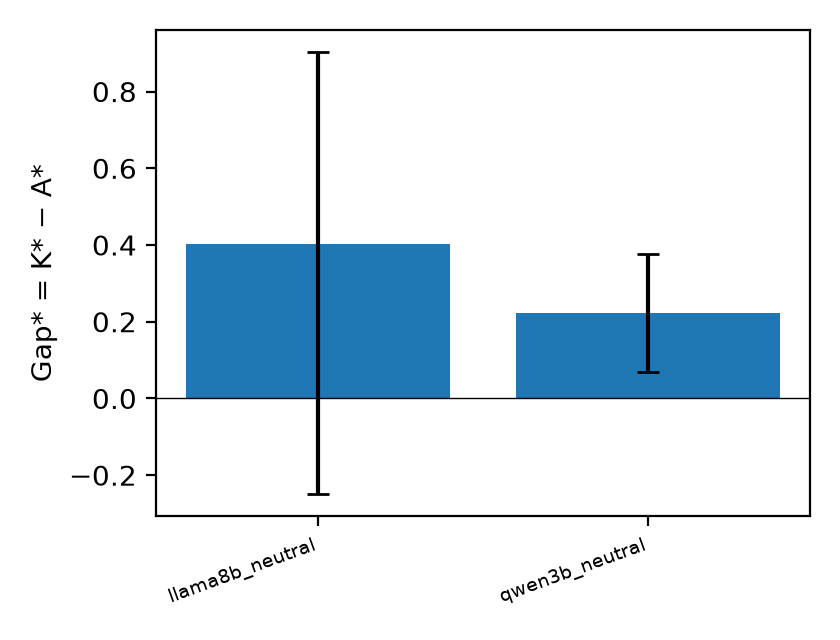
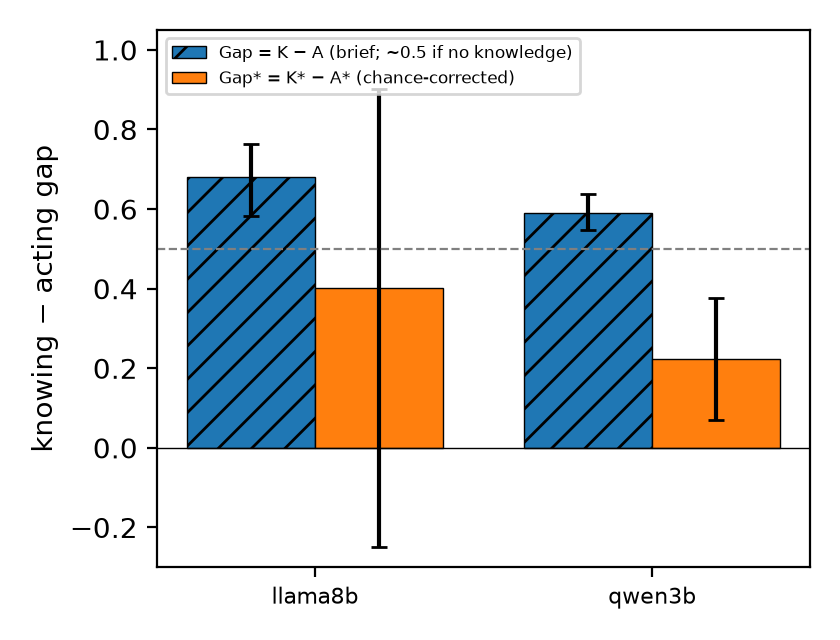
feat(tables): add stated-answer cis, careful-prompt gap and both gaps in figure
- bootstrap 95% CIs for stated balanced accuracy and stated-vs-probe kappa
- careful-prompt gap reuses the neutral K (K does not depend on the prompt)
- gap figure shows the brief's Gap next to Gap* for each model
- re-score saved answers for both models; existing numbers unchanged

diff --git a/reversibility/make_tables.py b/reversibility/make_tables.py
@@ -106,20 +106,25 @@ def comparison(tag):
     fig.tight_layout(); fig.savefig(f"figures/stated_probed_behaviour_{tag}.png", dpi=200); plt.close(fig)
     runs = [(os.path.basename(p)[6:-5], load(p)) for p in sorted(glob.glob("results/agent_*.json"))]
     runs = [(n, d) for n, d in runs if "gap_star" in d and "_pilot" not in n]
-    fig, ax = plt.subplots(figsize=(4.2, 3.2))
-    ax.bar(range(len(runs)), [d["gap_star"] for _, d in runs],
-           yerr=[[d["gap_star"] - d["gap_star_ci95"]["templates"][0] for _, d in runs],
-                 [d["gap_star_ci95"]["templates"][1] - d["gap_star"] for _, d in runs]], capsize=4)
-    ax.axhline(0, color="k", lw=.5); ax.set_xticks(range(len(runs))); ax.set_xticklabels([n for n, _ in runs], rotation=20, ha="right", fontsize=7)
-    ax.set_ylabel("Gap* = K* − A*"); fig.tight_layout(); fig.savefig("figures/blindness_gap.png", dpi=200); plt.close(fig)
+    fig, ax = plt.subplots(figsize=(4.2, 3.2)); x = np.arange(len(runs)); w = .38
+    gci = lambda d: d["gap_ci95"] if isinstance(d["gap_ci95"], list) else d["gap_ci95"]["templates"]
+    for off, key, ci, lab, hatch in ((-w / 2, "blindness_gap", gci, "Gap = K − A (brief; ~0.5 if no knowledge)", "//"),
+                                     (w / 2, "gap_star", lambda d: d["gap_star_ci95"]["templates"], "Gap* = K* − A* (chance-corrected)", "")):
+        m = [d[key] for _, d in runs]
+        ax.bar(x + off, m, w, label=lab, hatch=hatch, edgecolor="k", lw=.5, capsize=3,
+               yerr=[[v - ci(d)[0] for v, (_, d) in zip(m, runs)], [ci(d)[1] - v for v, (_, d) in zip(m, runs)]])
+    ax.axhline(0, color="k", lw=.5); ax.axhline(.5, color="gray", ls="--", lw=.8)
+    ax.set_xticks(x); ax.set_xticklabels([n.replace("_neutral", "") for n, _ in runs], fontsize=8)
+    ax.set_ylabel("knowing − acting gap"); ax.set_ylim(-.3, 1.05); ax.legend(fontsize=6, loc="upper left")
+    fig.tight_layout(); fig.savefig("figures/blindness_gap.png", dpi=200); plt.close(fig)
     with open(f"results/tables/stated_probe_behaviour_{tag}.md", "w", encoding="utf-8") as f:
         f.write("| quantity | value [95% CI] |\n|---|---|\n")
-        rows = [("stated answer, binary bal-acc (strict: parse failures wrong)", fmt(st["binary_strict"]["bal_acc"])),
-                ("stated answer, 3-class bal-acc (strict)", fmt(st["three_strict"]["bal_acc"])),
+        rows = [("stated answer, binary bal-acc (strict: parse failures wrong)", fmt(st["binary_strict"]["bal_acc"], None, st["binary_strict"].get("bal_acc_ci95"))),
+                ("stated answer, 3-class bal-acc (strict)", fmt(st["three_strict"]["bal_acc"], None, st["three_strict"].get("bal_acc_ci95"))),
                 ("stated parse failures", f'{st["parse_failures"]} / {st["n"]}')]
         for task, v in st["vs_probe"].items():
             rows += [(f"{task}: probe vs stated bal-acc on the same {v['n']} rows ({v.get('n_dropped_parse_failures', '?')} parse failures dropped)", f'{v["probe_bal_acc"]:.3f} vs {v["stated_bal_acc"]:.3f}'),
-                     (f"{task}: kappa(stated, probe)", fmt(v["kappa_stated_vs_probe"]))]
+                     (f"{task}: kappa(stated, probe)", fmt(v["kappa_stated_vs_probe"], None, v.get("kappa_ci95")))]
         T = lambda k: fmt(ag[k], None, ag[k + "_ci95"]["templates"])
         rows += [("K: names the irreversible version (both orders; chance 0.5)", fmt(ag["K_states_correct_version"], None, ag["K_ci95"])),
                  ("K both orders correct (chance 0.25)", fmt(ag["K_both_orders_correct"])),
@@ -130,6 +135,13 @@ def comparison(tag):
                  ("Gap* = K* − A* (headline)", T("gap_star")), ("Gap*_outcome = K* − A_out*", T("gap_star_outcome")),
                  ("McNemar p (caution irr vs rev)", f'{ag["mcnemar_p"]:.3g}'), ("careful 2×2 (both / irr only / rev only / neither)",
                   " / ".join(str(ag["careful_2x2"][k]) for k in ("both", "irr_only", "rev_only", "neither")))]
+        sw, cl = f"results/stated_which_{tag}_neutral.jsonl", f"results/agent_{tag}_careful.jsonl"
+        if os.path.exists(sw) and os.path.exists(cl):          # K does not depend on the system prompt: reuse the neutral K
+            from agent_eval import summarize; from utils import read_jsonl
+            st = list(read_jsonl(sw)); c = summarize(list(read_jsonl(cl)), [r for r in st if "irr_shown_as" in r],
+                                                     [r for r in st if "irr_shown_as" not in r])
+            rows += [("careful prompt: Gap (brief), neutral K", fmt(c["blindness_gap"], None, c["gap_ci95"])),
+                     ("careful prompt: Gap*, neutral K", fmt(c["gap_star"], None, c["gap_star_ci95"]["templates"]))]
         for k, v in rows: f.write(f"| {k} | {v} |\n")
     s = load(f"results/steering_{tag}.json")
     if s:

diff --git a/reversibility/stated_answer.py b/reversibility/stated_answer.py
@@ -24,6 +24,7 @@ def scores(y, p, k):
     """p may hold -1 (parse failure): counted as wrong."""
     return {"accuracy": float((y == p).mean()), "bal_acc": float(balanced_accuracy_score(y, p)),
             "accuracy_ci95": bootstrap_ci((y == p).astype(float)),
+            "bal_acc_ci95": bootstrap_ci(lambda i: balanced_accuracy_score(y[i], p[i]), size=len(y)),
             "confusion_true_by_stated": confusion_matrix(y, p, labels=list(range(k))).tolist()}
 
 
@@ -36,6 +37,9 @@ def vs_probe(rows, path):
     t = np.array([conv(r["true"]) for r in both])
     return {"n": len(both), "n_dropped_parse_failures": sum(r["id"] in pr and r["stated"] is None for r in rows),
             "kappa_stated_vs_probe": float(cohen_kappa_score(s, q)),
+            "kappa_ci95": bootstrap_ci(lambda i: cohen_kappa_score(s[i], q[i]), size=len(s)),
+            "stated_bal_acc_ci95": bootstrap_ci(lambda i: balanced_accuracy_score(t[i], s[i]), size=len(s)),
+            "probe_bal_acc_ci95": bootstrap_ci(lambda i: balanced_accuracy_score(t[i], q[i]), size=len(s)),
             "probe_bal_acc": float(balanced_accuracy_score(t, q)), "stated_bal_acc": float(balanced_accuracy_score(t, s)),
             "probe_accuracy": float((t == q).mean()), "stated_accuracy": float((t == s).mean()),
             "agreement_stated_probe": float((s == q).mean()), "both_correct": float(((s == t) & (q == t)).mean()),

diff --git a/reversibility/results/tables/stated_probe_behaviour_qwen3b.md b/reversibility/results/tables/stated_probe_behaviour_qwen3b.md
@@ -1,12 +1,12 @@
 | quantity | value [95% CI] |
 |---|---|
-| stated answer, binary bal-acc (strict: parse failures wrong) | 0.699 |
-| stated answer, 3-class bal-acc (strict) | 0.466 |
+| stated answer, binary bal-acc (strict: parse failures wrong) | 0.699 [0.649, 0.746] |
+| stated answer, 3-class bal-acc (strict) | 0.466 [0.421, 0.515] |
 | stated parse failures | 0 / 389 |
 | binary: probe vs stated bal-acc on the same 297 rows (0 parse failures dropped) | 0.984 vs 0.699 |
-| binary: kappa(stated, probe) | 0.393 |
+| binary: kappa(stated, probe) | 0.393 [0.290, 0.491] |
 | three: probe vs stated bal-acc on the same 389 rows (0 parse failures dropped) | 0.993 vs 0.466 |
-| three: kappa(stated, probe) | 0.213 |
+| three: kappa(stated, probe) | 0.213 [0.147, 0.281] |
 | K: names the irreversible version (both orders; chance 0.5) | 0.590 [0.549, 0.639] |
 | K both orders correct (chance 0.25) | 0.181 |
 | K_single: right on each version's state alone | 0.181 [0.000, 0.458] |
@@ -19,3 +19,5 @@
 | Gap*_outcome = K* − A_out* | 0.111 [-0.125, 0.319] |
 | McNemar p (caution irr vs rev) | 0.25 |
 | careful 2×2 (both / irr only / rev only / neither) | 30 / 0 / 3 / 39 |
+| careful prompt: Gap (brief), neutral K | 0.590 [0.549, 0.639] |
+| careful prompt: Gap*, neutral K | 0.264 [0.139, 0.389] |

diff --git a/reversibility/results/tables/stated_probe_behaviour_llama8b.md b/reversibility/results/tables/stated_probe_behaviour_llama8b.md
@@ -1,12 +1,12 @@
 | quantity | value [95% CI] |
 |---|---|
-| stated answer, binary bal-acc (strict: parse failures wrong) | 0.500 |
-| stated answer, 3-class bal-acc (strict) | 0.333 |
+| stated answer, binary bal-acc (strict: parse failures wrong) | 0.500 [0.500, 0.500] |
+| stated answer, 3-class bal-acc (strict) | 0.333 [0.333, 0.333] |
 | stated parse failures | 0 / 389 |
 | binary: probe vs stated bal-acc on the same 297 rows (0 parse failures dropped) | 0.953 vs 0.500 |
-| binary: kappa(stated, probe) | 0.000 |
+| binary: kappa(stated, probe) | 0.000 [0.000, 0.000] |
 | three: probe vs stated bal-acc on the same 389 rows (0 parse failures dropped) | 0.988 vs 0.333 |
-| three: kappa(stated, probe) | 0.000 |
+| three: kappa(stated, probe) | 0.000 [0.000, 0.000] |
 | K: names the irreversible version (both orders; chance 0.5) | 0.694 [0.597, 0.785] |
 | K both orders correct (chance 0.25) | 0.597 |
 | K_single: right on each version's state alone | 0.000 [0.000, 0.000] |
@@ -19,3 +19,5 @@
 | Gap*_outcome = K* − A_out* | 0.375 [-0.250, 0.847] |
 | McNemar p (caution irr vs rev) | 1 |
 | careful 2×2 (both / irr only / rev only / neither) | 17 / 1 / 2 / 52 |
+| careful prompt: Gap (brief), neutral K | 0.694 [0.597, 0.785] |
+| careful prompt: Gap*, neutral K | 0.389 [-0.250, 0.861] |
